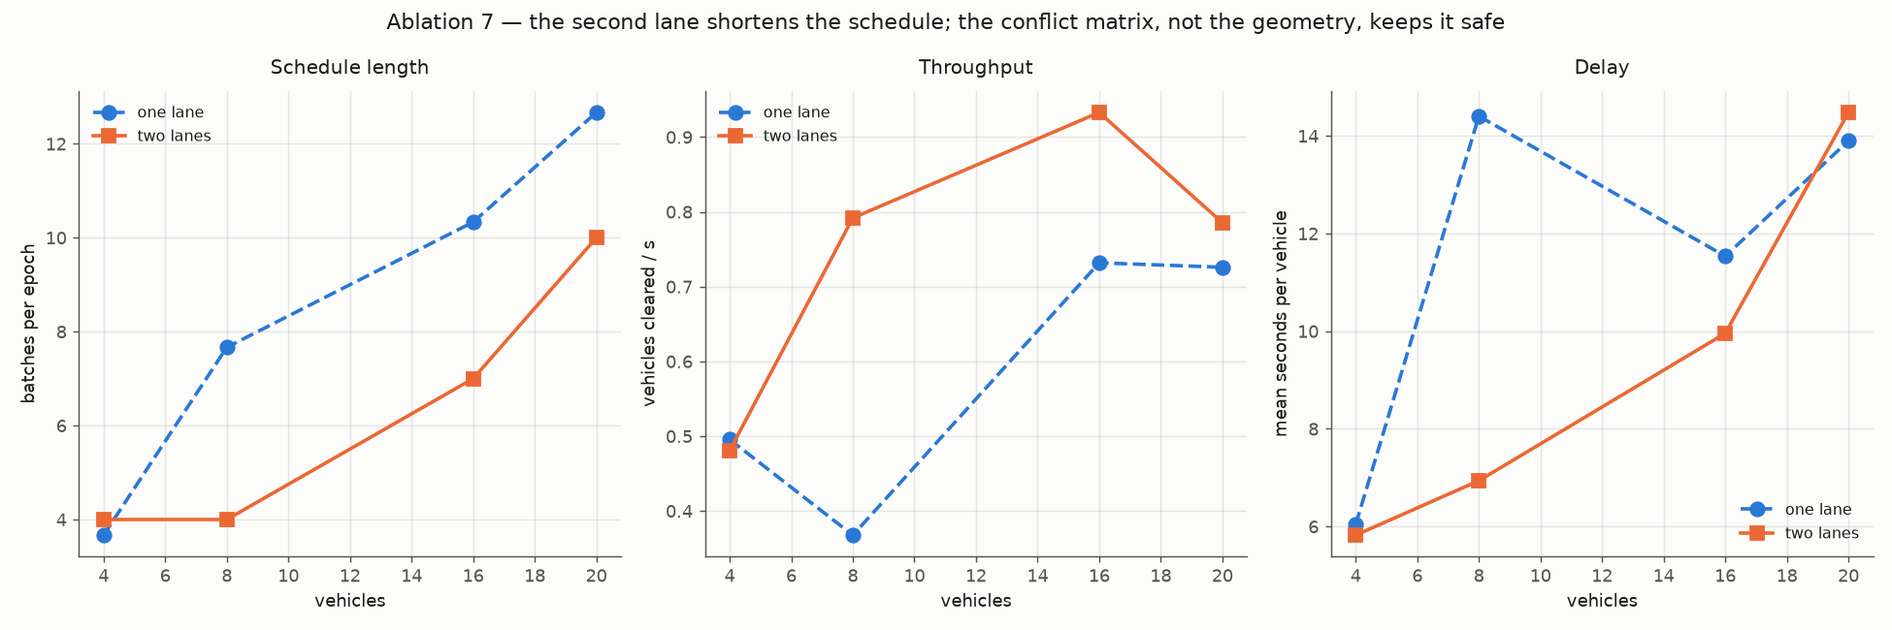
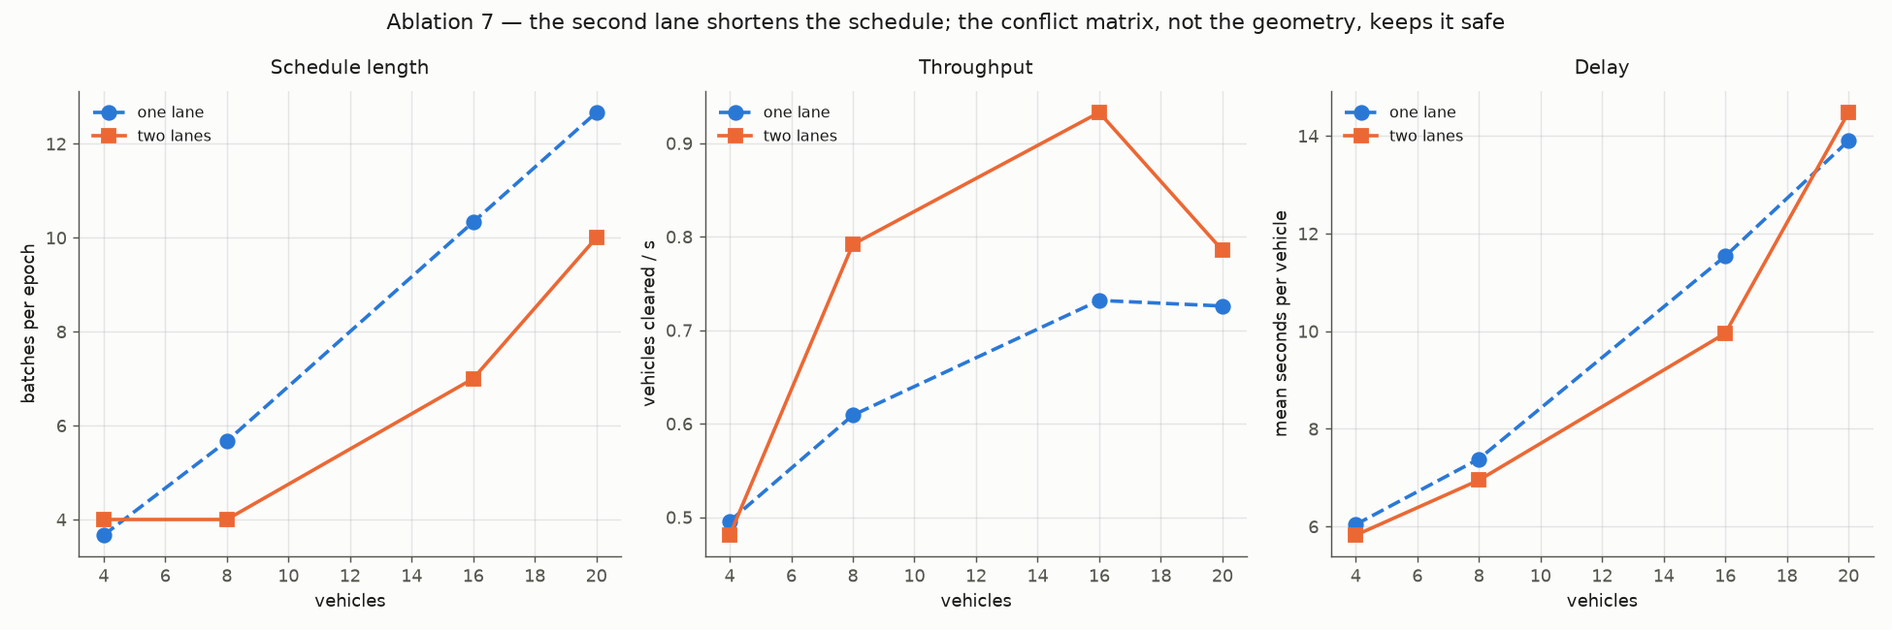
pushing the last changes

diff --git a/figures/results.md b/figures/results.md
@@ -7,11 +7,11 @@ Generated by `python3 -m plotter summary`. Values are the mean across repetition
 | ab1   | OFF          | 4  | 0   | 3    | 100        | 0          | 3          | 4.0              | 0.497 [0.342-0.635] | 6.14 [4.83-8.28]    | 0.46               | 0.20 [0.07-0.47]   | 0.072 [0.061-0.088]  | 0.090 [0.068-0.117] | 60 [50-69]    | 18.3 [13.5-21.3]    | 45 [35-53]       |
 | ab1   | OFF          | 4  | 1   | 3    | 67 [0-100] | 33 [0-100] | 3          | 4.0              | 0.414 [0.100-0.635] | 14.20 [4.83-32.40]  | 0.50 [0.48-0.53]   | 0.11 [0.08-0.14]   | 0.105 [0.076-0.135]  | 0.102 [0.086-0.123] | 66 [61-70]    | 22.3 [21.1-23.6]    | 37 [30-47]       |
 | ab1   | OFF          | 4  | 2   | 3    | 0          | 100        | 3          | 3.7 [3.0-4.0]    | 0.103 [0.091-0.117] | 32.43 [32.40-32.50] | -                  | -                  | -                    | 0.090 [0.068-0.117] | -             | -                   | 59 [54-62]       |
-| ab1   | OFF          | 8  | 0   | 3    | 100        | 0          | 5          | 8.0              | 0.368 [0.338-0.400] | 14.40 [13.15-16.77] | 7.72 [6.02-9.95]   | 9.11 [9.09-9.13]   | 0.113 [0.090-0.135]  | 0.111 [0.053-0.171] | 76 [66-94]    | 27.8 [22.8-37.0]    | 259 [163-368]    |
-| ab1   | OFF          | 8  | 1   | 3    | 100        | 0          | 5          | 8.0              | 0.368 [0.338-0.400] | 14.37 [13.15-16.77] | 7.85 [5.98-10.08]  | 9.09 [9.09-9.10]   | 0.092 [0.090-0.095]  | 0.115 [0.080-0.171] | 75 [64-90]    | 27.6 [22.6-36.2]    | 178 [157-211]    |
-| ab1   | OFF          | 8  | 2   | 3    | 100        | 0          | 5          | 8.0              | 0.367 [0.338-0.398] | 14.44 [13.25-16.77] | 7.80 [5.99-9.95]   | 9.10 [9.09-9.11]   | 0.102 [0.090-0.110]  | 0.112 [0.080-0.171] | 73 [64-86]    | 27.4 [22.6-35.7]    | 144 [134-157]    |
-| ab1   | OFF          | 8  | 3   | 3    | 100        | 0          | 5          | 8.0              | 0.366 [0.336-0.398] | 14.47 [13.25-16.88] | 7.82 [6.00-9.99]   | 9.12 [9.12-9.13]   | 0.122 [0.115-0.130]  | 0.128 [0.053-0.247] | 73 [64-87]    | 27.2 [22.5-35.8]    | 128 [118-138]    |
-| ab1   | OFF          | 8  | 4   | 3    | 0          | 100        | 5          | 8.0              | 0.205 [0.190-0.213] | 32.41 [32.34-32.45] | -                  | -                  | -                    | 0.146 [0.095-0.247] | -             | -                   | 282 [254-301]    |
+| ab1   | OFF          | 8  | 0   | 3    | 100        | 0          | 5          | 8.0              | 0.609 [0.488-0.684] | 7.38 [6.53-8.50]    | 1.26 [0.64-1.71]   | 0.87 [0.09-2.43]   | 0.088 [0.080-0.093]  | 0.117 [0.091-0.144] | 101 [90-109]  | 37.2 [31.3-41.7]    | 175 [116-221]    |
+| ab1   | OFF          | 8  | 1   | 3    | 100        | 0          | 5          | 8.0              | 0.609 [0.488-0.684] | 7.38 [6.53-8.50]    | 2.94 [0.65-6.25]   | 0.84 [0.08-2.36]   | 0.088 [0.076-0.099]  | 0.117 [0.104-0.139] | 100 [88-109]  | 36.6 [29.7-41.8]    | 139 [127-148]    |
+| ab1   | OFF          | 8  | 2   | 3    | 100        | 0          | 5          | 8.0              | 0.608 [0.491-0.678] | 7.47 [6.62-8.70]    | 1.50 [0.69-2.17]   | 0.66 [0.12-1.73]   | 0.134 [0.115-0.155]  | 0.128 [0.108-0.141] | 98 [87-103]   | 35.6 [30.3-38.4]    | 137 [109-157]    |
+| ab1   | OFF          | 8  | 3   | 3    | 67 [0-100] | 33 [0-100] | 5          | 8.0              | 0.508 [0.190-0.678] | 15.22 [6.61-32.44]  | 1.28 [0.90-1.66]   | 0.36 [0.13-0.58]   | 0.142 [0.125-0.159]  | 0.137 [0.095-0.173] | 99 [96-102]   | 36.2 [34.4-38.0]    | 117 [91-158]     |
+| ab1   | OFF          | 8  | 4   | 3    | 0          | 100        | 5          | 8.0              | 0.205 [0.190-0.213] | 32.41 [32.34-32.45] | -                  | -                  | -                    | 0.107 [0.073-0.125] | -             | -                   | 235 [217-250]    |
 | ab1   | OFF          | 12 | 0   | 3    | 100        | 0          | 7          | 12.0             | 0.670 [0.526-0.774] | 10.02 [8.66-12.50]  | 1.84 [0.86-2.98]   | 2.83 [1.50-5.28]   | 0.128 [0.101-0.166]  | 0.189 [0.090-0.382] | 158 [148-180] | 61.9 [54.9-74.4]    | 922 [749-1122]   |
 | ab1   | OFF          | 12 | 1   | 3    | 100        | 0          | 7          | 12.0             | 0.669 [0.529-0.769] | 9.84 [8.45-12.45]   | 2.00 [1.35-2.91]   | 3.10 [2.02-5.12]   | 0.144 [0.114-0.188]  | 0.127 [0.069-0.169] | 156 [151-165] | 64.8 [59.5-72.8]    | 552 [350-820]    |
 | ab1   | OFF          | 12 | 2   | 3    | 100        | 0          | 7          | 12.0             | 0.674 [0.538-0.774] | 10.00 [8.69-12.61]  | 1.79 [1.21-2.64]   | 2.35 [1.44-3.58]   | 0.152 [0.128-0.191]  | 0.115 [0.091-0.161] | 149 [141-162] | 59.6 [54.8-66.0]    | 447 [372-505]    |
@@ -38,11 +38,11 @@ Generated by `python3 -m plotter summary`. Values are the mean across repetition
 | ab1   | ON           | 4  | 0   | 3    | 100        | 0          | 5          | 4.0              | 0.487 [0.320-0.635] | 6.05 [4.83-7.95]    | 1.09 [0.50-2.28]   | 1.32 [0.10-3.78]   | 0.091 [0.089-0.095]  | 0.118 [0.086-0.159] | 96 [91-104]   | 32.8 [30.8-34.7]    | 199 [152-237]    |
 | ab1   | ON           | 4  | 1   | 3    | 100        | 0          | 5          | 4.0              | 0.489 [0.336-0.625] | 6.06 [4.92-7.89]    | 0.63 [0.51-0.87]   | 0.56 [0.10-1.47]   | 0.105 [0.100-0.109]  | 0.095 [0.086-0.110] | 87 [85-90]    | 28.1 [22.0-32.1]    | 164 [140-191]    |
 | ab1   | ON           | 4  | 2   | 3    | 100        | 33 [0-100] | 5          | 4.0              | 0.410 [0.100-0.625] | 14.23 [4.92-32.40]  | 0.51 [0.51-0.51]   | 0.11 [0.11-0.12]   | 0.108 [0.105-0.110]  | 0.095 [0.086-0.110] | 86 [83-88]    | 28.5 [23.7-31.9]    | 168 [102-235]    |
-| ab1   | ON           | 8  | 0   | 3    | 100        | 0          | 7          | 8.0              | 0.366 [0.336-0.398] | 14.47 [13.24-16.88] | 8.02 [6.84-9.77]   | 9.11 [9.09-9.12]   | 0.107 [0.090-0.120]  | 0.091 [0.069-0.126] | 91 [83-104]   | 37.7 [32.0-48.7]    | 438 [408-465]    |
-| ab1   | ON           | 8  | 1   | 3    | 100        | 0          | 7          | 8.0              | 0.366 [0.336-0.398] | 14.47 [13.25-16.88] | 7.69 [5.60-9.97]   | 9.11 [9.11-9.12]   | 0.110 [0.105-0.120]  | 0.089 [0.069-0.120] | 90 [82-103]   | 37.5 [31.8-48.6]    | 390 [322-479]    |
-| ab1   | ON           | 8  | 2   | 3    | 100        | 0          | 38 [7-101] | 8.0              | 0.366 [0.336-0.398] | 14.47 [13.25-16.88] | 7.82 [5.84-10.11]  | 9.13 [9.12-9.13]   | 0.128 [0.125-0.130]  | 0.111 [0.069-0.161] | 90 [82-105]   | 37.7 [31.9-48.9]    | 335 [288-393]    |
-| ab1   | ON           | 8  | 3   | 3    | 100        | 0          | 7          | 8.0              | 0.366 [0.336-0.398] | 14.47 [13.25-16.88] | 7.84 [6.02-10.01]  | 9.14 [9.13-9.14]   | 0.138 [0.135-0.145]  | 0.148 [0.069-0.220] | 90 [82-103]   | 37.7 [31.8-48.7]    | 299 [222-343]    |
-| ab1   | ON           | 8  | 4   | 3    | 100        | 33 [0-100] | 5 [1-7]    | 8.0              | 0.304 [0.211-0.365] | 20.87 [13.29-32.45] | 8.02 [6.03-10.01]  | 9.15 [9.14-9.15]   | 0.147 [0.145-0.150]  | 0.136 [0.069-0.229] | 84 [83-86]    | 34.2 [32.0-38.0]    | 427 [340-518]    |
+| ab1   | ON           | 8  | 0   | 3    | 100        | 0          | 7          | 8.0              | 0.607 [0.488-0.678] | 7.38 [6.62-8.46]    | 1.42 [0.71-2.06]   | 0.14 [0.12-0.15]   | 0.113 [0.106-0.120]  | 0.109 [0.085-0.137] | 127 [123-132] | 50.1 [41.7-56.5]    | 569 [390-895]    |
+| ab1   | ON           | 8  | 1   | 3    | 100        | 0          | 7          | 8.0              | 0.606 [0.485-0.678] | 7.34 [6.62-8.47]    | 1.58 [0.92-2.15]   | 1.71 [0.13-3.29]   | 0.127 [0.125-0.128]  | 0.148 [0.083-0.242] | 124 [114-135] | 50.7 [40.8-59.2]    | 409 [382-432]    |
+| ab1   | ON           | 8  | 2   | 3    | 100        | 0          | 7          | 8.0              | 0.603 [0.476-0.678] | 7.51 [6.62-8.83]    | 2.03 [1.25-3.16]   | 0.15 [0.14-0.15]   | 0.143 [0.140-0.145]  | 0.210 [0.082-0.370] | 120 [107-133] | 51.7 [40.6-62.5]    | 365 [356-372]    |
+| ab1   | ON           | 8  | 3   | 3    | 100        | 0          | 7          | 8.0              | 0.608 [0.491-0.678] | 7.50 [6.61-8.81]    | 1.62 [1.25-1.92]   | 0.59 [0.15-1.47]   | 0.146 [0.143-0.151]  | 0.114 [0.077-0.170] | 115 [109-119] | 46.3 [39.5-51.3]    | 385 [307-480]    |
+| ab1   | ON           | 8  | 4   | 3    | 100        | 0          | 7          | 8.0              | 0.606 [0.485-0.678] | 7.29 [6.61-8.48]    | 1.75 [1.14-2.12]   | 0.37 [0.15-0.59]   | 0.158 [0.151-0.164]  | 0.137 [0.080-0.168] | 120 [111-133] | 51.3 [43.3-60.0]    | 285 [268-304]    |
 | ab1   | ON           | 12 | 0   | 3    | 100        | 0          | 11         | 12.0             | 0.665 [0.524-0.769] | 9.80 [8.30-12.50]   | 2.36 [1.32-3.73]   | 3.50 [2.33-5.76]   | 0.215 [0.188-0.258]  | 0.256 [0.130-0.465] | 193 [184-211] | 94.3 [86.4-106.1]   | 1209 [933-1507]  |
 | ab1   | ON           | 12 | 1   | 3    | 100        | 0          | 11         | 12.0             | 0.658 [0.511-0.769] | 9.85 [8.26-12.75]   | 2.70 [1.60-4.40]   | 4.45 [2.38-7.88]   | 0.186 [0.181-0.191]  | 0.285 [0.197-0.379] | 197 [182-214] | 99.7 [86.5-116.5]   | 918 [754-1126]   |
 | ab1   | ON           | 12 | 2   | 3    | 100        | 0          | 11         | 12.0             | 0.664 [0.522-0.769] | 9.81 [8.30-12.54]   | 2.36 [1.35-3.70]   | 3.59 [2.33-6.00]   | 0.230 [0.201-0.284]  | 0.313 [0.146-0.557] | 189 [174-216] | 93.9 [84.4-107.2]   | 934 [735-1230]   |
@@ -68,9 +68,9 @@ Generated by `python3 -m plotter summary`. Values are the mean across repetition
 | ab1   | ON           | 20 | 8   | 3    | 100        | 0          | 15         | 20.0             | 0.720 [0.697-0.735] | 13.94 [13.25-14.51] | 4.47 [3.76-4.85]   | 6.94 [5.98-8.49]   | 0.613 [0.485-0.807]  | 0.206 [0.162-0.261] | 344 [331-355] | 182.4 [179.5-186.2] | 2017 [1715-2265] |
 | ab2   | ours         | 4  | 1   | 3    | 100        | 0          | 3          | 4.0              | 0.484 [0.360-0.571] | 5.59 [4.84-6.72]    | 0.63 [0.45-0.87]   | 0.53 [0.06-1.47]   | 0.073 [0.056-0.102]  | 0.145 [0.086-0.259] | 63 [59-68]    | 20.6 [17.7-22.6]    | 36 [25-52]       |
 | ab2   | ours         | 4  | 2   | 3    | 100        | 0          | 3          | 4.0              | 0.498 [0.381-0.571] | 5.84 [4.83-7.61]    | 0.47 [0.45-0.49]   | 0.20 [0.07-0.45]   | 0.075 [0.062-0.090]  | 0.082 [0.068-0.091] | 61 [55-67]    | 18.4 [14.2-21.4]    | 49 [40-64]       |
-| ab2   | ours         | 8  | 1   | 3    | 100        | 0          | 5          | 8.0              | 0.374 [0.338-0.419] | 14.32 [12.99-16.77] | 7.79 [5.97-9.95]   | 9.08 [9.08-9.09]   | 0.083 [0.080-0.090]  | 0.133 [0.079-0.171] | 76 [65-89]    | 27.8 [22.7-36.1]    | 206 [189-234]    |
-| ab2   | ours         | 8  | 2   | 3    | 100        | 0          | 5          | 8.0              | 0.374 [0.338-0.417] | 14.35 [13.09-16.77] | 7.73 [5.95-9.95]   | 9.09 [9.06-9.11]   | 0.085 [0.065-0.105]  | 0.132 [0.069-0.247] | 76 [67-90]    | 27.8 [23.1-36.3]    | 205 [193-224]    |
-| ab2   | ours         | 8  | 3   | 3    | 100        | 0          | 5          | 8.0              | 0.371 [0.338-0.408] | 14.32 [13.01-16.77] | 7.80 [5.98-9.94]   | 9.08 [9.07-9.09]   | 0.077 [0.070-0.085]  | 0.116 [0.053-0.171] | 74 [66-89]    | 27.5 [22.8-36.2]    | 191 [171-223]    |
+| ab2   | ours         | 8  | 1   | 3    | 100        | 0          | 5          | 8.0              | 0.585 [0.488-0.656] | 8.11 [7.10-9.04]    | 1.25 [0.65-1.63]   | 0.10               | 0.100                | 0.103 [0.073-0.140] | 103 [90-112]  | 37.3 [31.1-42.1]    | 207 [139-309]    |
+| ab2   | ours         | 8  | 2   | 3    | 100        | 0          | 5          | 8.0              | 0.516 [0.488-0.563] | 9.10 [7.43-10.71]   | 1.31 [0.65-1.68]   | 0.86 [0.09-2.40]   | 0.088 [0.085-0.090]  | 0.083 [0.078-0.089] | 109 [103-119] | 38.4 [33.2-43.4]    | 443 [206-604]    |
+| ab2   | ours         | 8  | 3   | 3    | 100        | 0          | 5          | 8.0              | 0.552 [0.494-0.667] | 8.56 [6.43-10.39]   | 1.46 [0.63-2.12]   | 1.14 [0.07-3.27]   | 0.077 [0.070-0.080]  | 0.095 [0.074-0.105] | 105 [92-116]  | 38.1 [31.3-44.5]    | 155 [135-174]    |
 | ab2   | ours         | 16 | 1   | 3    | 100        | 0          | 11         | 16.0             | 0.645 [0.569-0.721] | 13.35 [11.96-15.45] | 3.36 [1.57-4.84]   | 4.48 [1.81-7.36]   | 0.179 [0.159-0.189]  | 0.226 [0.158-0.303] | 232 [231-233] | 111.5 [98.0-121.6]  | 1139 [809-1744]  |
 | ab2   | ours         | 16 | 2   | 3    | 100        | 0          | 11         | 16.0             | 0.643 [0.546-0.751] | 12.57 [10.32-15.27] | 3.33 [2.30-3.91]   | 4.68 [2.43-7.33]   | 0.187 [0.183-0.193]  | 0.213 [0.143-0.279] | 235 [230-238] | 115.6 [106.8-122.2] | 736 [644-859]    |
 | ab2   | ours         | 16 | 3   | 3    | 100        | 0          | 11         | 16.0             | 0.617 [0.511-0.769] | 13.44 [9.97-15.50]  | 3.33 [1.93-4.09]   | 4.67 [2.61-7.14]   | 0.188 [0.178-0.196]  | 0.217 [0.164-0.291] | 240 [235-244] | 116.0 [109.6-122.0] | 1580 [1393-1894] |
@@ -79,9 +79,9 @@ Generated by `python3 -m plotter summary`. Values are the mean across repetition
 | ab2   | ours         | 16 | 6   | 3    | 100        | 0          | 11         | 16.0             | 0.666 [0.528-0.856] | 12.48 [9.57-15.82]  | 3.15 [1.77-4.13]   | 4.58 [2.04-7.55]   | 0.209 [0.162-0.277]  | 0.221 [0.162-0.299] | 234 [232-237] | 113.6 [100.6-123.7] | 716 [659-755]    |
 | ab2   | vanilla      | 4  | 1   | 3    | 100        | 0          | 3          | 4.0              | 0.484 [0.360-0.571] | 5.58 [4.83-6.71]    | 0.60 [0.47-0.86]   | 0.54 [0.07-1.46]   | 0.080 [0.072-0.092]  | 0.138 [0.068-0.259] | 67 [64-69]    | 20.2 [18.9-21.6]    | 49 [36-69]       |
 | ab2   | vanilla      | 4  | 2   | 3    | 100        | 0          | 3          | 4.0              | 0.498 [0.381-0.571] | 5.63 [4.83-6.97]    | 0.60 [0.45-0.88]   | 0.54 [0.06-1.49]   | 0.078 [0.051-0.127]  | 0.138 [0.068-0.259] | 65 [60-71]    | 19.9 [17.9-21.4]    | 49 [26-62]       |
-| ab2   | vanilla      | 8  | 1   | 3    | 100        | 0          | 5          | 8.0              | 0.374 [0.338-0.419] | 14.32 [12.99-16.77] | 7.61 [5.40-9.94]   | 9.08 [9.07-9.09]   | 0.078 [0.070-0.085]  | 0.136 [0.053-0.247] | 75 [67-89]    | 27.7 [23.1-36.3]    | 206 [190-236]    |
-| ab2   | vanilla      | 8  | 2   | 3    | 100        | 0          | 5          | 8.0              | 0.374 [0.338-0.419] | 14.32 [12.99-16.77] | 7.79 [5.97-9.94]   | 9.08 [9.08-9.09]   | 0.083 [0.080-0.090]  | 0.114 [0.080-0.171] | 75 [67-87]    | 27.7 [23.0-35.9]    | 193 [158-219]    |
-| ab2   | vanilla      | 8  | 3   | 3    | 100        | 0          | 5          | 8.0              | 0.371 [0.338-0.408] | 14.32 [13.01-16.77] | 7.83 [5.97-10.06]  | 9.08 [9.08-9.09]   | 0.082 [0.080-0.085]  | 0.105 [0.053-0.171] | 74 [67-87]    | 27.5 [23.0-35.9]    | 219 [160-261]    |
+| ab2   | vanilla      | 8  | 1   | 3    | 100        | 0          | 5          | 8.0              | 0.585 [0.488-0.656] | 8.15 [7.13-9.13]    | 1.34 [0.66-1.74]   | 0.89 [0.10-2.47]   | 0.103 [0.095-0.107]  | 0.125 [0.080-0.213] | 99 [87-106]   | 36.9 [31.0-41.4]    | 165 [143-178]    |
+| ab2   | vanilla      | 8  | 2   | 3    | 100        | 0          | 5          | 8.0              | 0.517 [0.491-0.563] | 9.15 [7.43-10.83]   | 1.26 [0.65-1.61]   | 0.81 [0.09-2.23]   | 0.087 [0.080-0.100]  | 0.097 [0.083-0.104] | 103 [86-112]  | 37.4 [30.7-41.8]    | 288 [205-409]    |
+| ab2   | vanilla      | 8  | 3   | 3    | 100        | 0          | 5          | 8.0              | 0.552 [0.494-0.667] | 8.60 [6.43-10.39]   | 1.35 [0.64-1.72]   | 0.87 [0.08-2.44]   | 0.087 [0.075-0.101]  | 0.142 [0.105-0.191] | 102 [92-111]  | 37.0 [30.6-42.4]    | 206 [187-233]    |
 | ab2   | vanilla      | 16 | 1   | 3    | 100        | 0          | 11         | 16.0             | 0.645 [0.573-0.717] | 13.31 [11.84-15.43] | 3.23 [2.22-3.91]   | 4.43 [2.48-6.60]   | 0.211 [0.172-0.276]  | 0.210 [0.140-0.253] | 234 [227-248] | 114.3 [106.6-119.3] | 1223 [720-2055]  |
 | ab2   | vanilla      | 16 | 2   | 3    | 100        | 0          | 11         | 16.0             | 0.633 [0.539-0.724] | 12.79 [10.74-15.54] | 3.56 [2.60-4.57]   | 5.28 [3.74-7.96]   | 0.195 [0.187-0.201]  | 0.159 [0.106-0.222] | 239 [236-244] | 121.3 [115.5-127.1] | 1276 [769-2011]  |
 | ab2   | vanilla      | 16 | 3   | 3    | 100        | 0          | 11         | 16.0             | 0.621 [0.523-0.769] | 13.34 [9.97-15.08]  | 3.13 [2.46-4.09]   | 4.15 [2.65-6.34]   | 0.191 [0.166-0.215]  | 0.239 [0.110-0.360] | 239 [237-241] | 111.7 [109.8-114.8] | 1875 [1406-2436] |
@@ -89,7 +89,7 @@ Generated by `python3 -m plotter summary`. Values are the mean across repetition
 | ab2   | vanilla      | 16 | 5   | 3    | 100        | 0          | 11         | 16.0             | 0.619 [0.525-0.741] | 13.52 [11.22-16.03] | 3.19 [1.66-4.02]   | 4.49 [1.84-7.30]   | 0.197 [0.176-0.216]  | 0.228 [0.099-0.301] | 233 [222-242] | 114.1 [102.0-124.0] | 982 [770-1292]   |
 | ab2   | vanilla      | 16 | 6   | 3    | 100        | 0          | 11         | 16.0             | 0.666 [0.533-0.851] | 12.41 [9.45-15.63]  | 3.29 [2.23-4.01]   | 4.59 [2.50-7.06]   | 0.192 [0.184-0.199]  | 0.241 [0.130-0.393] | 239 [236-242] | 114.6 [106.0-121.9] | 1743 [841-2215]  |
 | ab3   | ours         | 4  | -   | 3    | 100        | 0          | 3          | 4.0              | 0.495 [0.336-0.635] | 6.00 [4.84-7.88]    | 0.60 [0.46-0.87]   | 0.54 [0.06-1.49]   | 0.085 [0.056-0.127]  | 0.138 [0.068-0.259] | 64 [60-67]    | 19.8 [18.0-21.6]    | 38 [28-47]       |
-| ab3   | ours         | 8  | -   | 3    | 100        | 0          | 5          | 8.0              | 0.368 [0.338-0.400] | 14.37 [13.15-16.77] | 7.78 [5.96-9.94]   | 9.08 [9.07-9.08]   | 0.077 [0.075-0.080]  | 0.112 [0.080-0.171] | 75 [67-89]    | 27.7 [22.9-36.2]    | 180 [132-217]    |
+| ab3   | ours         | 8  | -   | 3    | 100        | 0          | 5          | 8.0              | 0.607 [0.488-0.678] | 7.42 [6.61-8.54]    | 1.35 [0.65-1.80]   | 0.84 [0.10-2.32]   | 0.095 [0.083-0.106]  | 0.113 [0.088-0.144] | 104 [94-112]  | 37.6 [31.6-42.1]    | 233 [212-254]    |
 | ab3   | ours         | 12 | -   | 3    | 100        | 0          | 7          | 12.0             | 0.671 [0.529-0.774] | 9.87 [8.55-12.39]   | 1.93 [1.24-3.13]   | 2.92 [1.72-5.00]   | 0.107 [0.104-0.109]  | 0.138 [0.039-0.274] | 155 [146-170] | 63.0 [58.2-71.3]    | 534 [518-562]    |
 | ab3   | ours         | 16 | -   | 3    | 100        | 0          | 11         | 16.0             | 0.731 [0.648-0.865] | 11.51 [9.92-12.69]  | 3.21 [1.70-4.41]   | 4.59 [1.96-7.68]   | 0.234 [0.174-0.317]  | 0.254 [0.184-0.367] | 233 [225-237] | 113.7 [102.0-122.9] | 707 [654-761]    |
 | ab3   | ours         | 20 | -   | 3    | 100        | 0          | 13         | 20.0             | 0.750 [0.717-0.778] | 13.20 [12.79-14.02] | 3.92 [3.42-4.37]   | 5.68 [4.16-7.62]   | 0.311 [0.239-0.350]  | 0.260 [0.169-0.333] | 311 [288-327] | 151.2 [142.1-157.0] | 2264 [1671-3348] |
@@ -99,12 +99,12 @@ Generated by `python3 -m plotter summary`. Values are the mean across repetition
 | ab3   | tl           | 16 | -   | 3    | 0          | 0          | -          | 16.0             | 0.370 [0.341-0.404] | 18.26 [16.13-19.70] | -                  | -                  | -                    | -                   | -             | -                   | 0                |
 | ab3   | tl           | 20 | -   | 3    | 0          | 0          | -          | 20.0             | 0.391 [0.382-0.402] | 21.33 [18.77-23.17] | -                  | -                  | -                    | -                   | -             | -                   | 0                |
 | ab4   | noprio       | 4  | -   | 3    | 100        | 0          | 3          | 4.0              | 0.495 [0.336-0.635] | 6.01 [4.83-7.89]    | 0.60 [0.47-0.85]   | 0.53 [0.07-1.46]   | 0.076 [0.067-0.092]  | 0.138 [0.068-0.259] | 65 [64-66]    | 20.0 [18.6-21.6]    | 39 [21-60]       |
-| ab4   | noprio       | 8  | -   | 3    | 100        | 0          | 5          | 8.0              | 0.368 [0.336-0.400] | 14.40 [13.15-16.88] | 7.78 [5.92-9.96]   | 9.09 [9.09-9.09]   | 0.087 [0.085-0.090]  | 0.131 [0.062-0.247] | 75 [66-90]    | 27.6 [22.8-36.2]    | 236 [193-275]    |
+| ab4   | noprio       | 8  | -   | 3    | 100        | 0          | 3 [0-5]    | 8.0              | 0.609 [0.488-0.684] | 7.37 [6.53-8.49]    | 1.33 [0.71-1.81]   | 0.12 [0.08-0.16]   | 0.089 [0.075-0.102]  | 0.110 [0.098-0.121] | 101 [88-109]  | 37.1 [30.8-41.9]    | 181 [173-192]    |
 | ab4   | noprio       | 12 | -   | 3    | 100        | 0          | 7          | 12.0             | 0.664 [0.529-0.755] | 9.72 [8.20-12.45]   | 2.37 [1.25-3.21]   | 3.88 [2.35-5.08]   | 0.117 [0.107-0.124]  | 0.184 [0.113-0.317] | 158 [144-167] | 69.0 [61.1-73.6]    | 675 [182-1502]   |
 | ab4   | noprio       | 16 | -   | 3    | 100        | 0          | 7 [0-11]   | 16.0             | 0.737 [0.656-0.860] | 11.24 [9.75-12.45]  | 2.96 [2.07-3.91]   | 4.32 [2.50-6.97]   | 0.198 [0.174-0.229]  | 0.234 [0.193-0.271] | 236 [228-248] | 112.5 [106.9-117.7] | 1692 [787-3300]  |
 | ab4   | noprio       | 20 | -   | 3    | 100        | 0          | 13         | 20.0             | 0.736 [0.699-0.772] | 13.52 [12.89-14.38] | 3.82 [3.52-4.30]   | 6.33 [4.62-8.39]   | 0.269 [0.198-0.311]  | 0.291 [0.233-0.400] | 318 [312-322] | 157.8 [151.5-162.1] | 2572 [1187-4877] |
 | ab4   | prio         | 4  | -   | 3    | 100        | 0          | 3          | 4.0              | 0.485 [0.364-0.571] | 5.75 [4.83-7.23]    | 0.40 [0.27-0.47]   | 0.20 [0.07-0.46]   | 0.074 [0.070-0.076]  | 0.077 [0.054-0.092] | 58 [48-65]    | 19.3 [15.1-23.0]    | 48 [29-71]       |
-| ab4   | prio         | 8  | -   | 3    | 100        | 0          | 5          | 8.0              | 0.374 [0.338-0.419] | 14.32 [12.99-16.77] | 7.63 [5.51-9.94]   | 9.08               | 0.080                | 0.119 [0.090-0.171] | 75 [65-90]    | 29.0 [24.3-37.7]    | 178 [139-232]    |
+| ab4   | prio         | 8  | -   | 3    | 100        | 0          | 5          | 8.0              | 0.586 [0.491-0.656] | 8.30 [7.09-9.60]    | 1.32 [0.65-1.68]   | 0.48 [0.10-1.24]   | 0.095 [0.090-0.100]  | 0.142 [0.122-0.160] | 97 [90-104]   | 36.8 [32.4-42.2]    | 147 [135-162]    |
 | ab4   | prio         | 12 | -   | 3    | 100        | 0          | 7          | 12.0             | 0.622 [0.550-0.663] | 10.89 [10.56-11.52] | 1.76 [1.13-2.64]   | 3.15 [1.78-5.35]   | 0.119 [0.104-0.129]  | 0.163 [0.088-0.272] | 156 [148-164] | 66.3 [60.7-73.5]    | 526 [276-922]    |
 | ab4   | prio         | 16 | -   | 3    | 100        | 0          | 11         | 16.0             | 0.648 [0.573-0.721] | 13.32 [11.99-15.45] | 3.38 [1.62-4.53]   | 4.16 [1.86-6.52]   | 0.193 [0.178-0.219]  | 0.211 [0.154-0.321] | 231 [228-235] | 112.1 [102.8-117.1] | 1161 [917-1515]  |
 | ab4   | prio         | 20 | -   | 3    | 100        | 0          | 13         | 20.0             | 0.660 [0.606-0.733] | 15.49 [14.09-17.54] | 4.09 [3.26-4.58]   | 6.31 [5.38-7.79]   | 0.257 [0.218-0.324]  | 0.261 [0.196-0.331] | 314 [303-320] | 156.9 [154.0-160.6] | 2576 [1392-4868] |
@@ -115,11 +115,11 @@ Generated by `python3 -m plotter summary`. Values are the mean across repetition
 | ab6   | perception   | 4  | 50  | 3    | 100        | 0          | 3          | 4.0              | 0.402 [0.331-0.513] | 7.49 [5.30-9.33]    | 2.54 [0.47-5.42]   | 2.67 [0.07-5.58]   | 0.962 [0.070-2.723]  | 0.117 [0.079-0.191] | 66 [63-69]    | 21.6 [20.0-22.8]    | 46 [31-59]       |
 | ab6   | perception   | 4  | 100 | 3    | 100        | 0          | 3          | 4.0              | 0.376 [0.292-0.506] | 8.41 [5.37-12.02]   | 3.46 [0.54-8.11]   | 3.51 [0.14-8.06]   | 0.092 [0.065-0.138]  | 0.108 [0.054-0.191] | 69 [62-76]    | 22.8 [20.0-25.4]    | 46 [34-55]       |
 | ab6   | perception   | 4  | 200 | 3    | 100        | 0          | 3          | 4.0              | 0.248 [0.197-0.282] | 13.15 [9.27-17.80]  | 8.90 [5.06-13.56]  | 9.78 [8.04-13.21]  | 0.912 [0.045-2.610]  | 0.122 [0.077-0.211] | 64 [42-78]    | 20.4 [10.5-25.6]    | 53 [44-65]       |
-| ab6   | perception   | 8  | 0   | 3    | 100        | 0          | 5          | 8.0              | 0.368 [0.338-0.400] | 14.37 [13.15-16.77] | 7.85 [5.97-10.08]  | 9.09 [9.09-9.09]   | 0.087 [0.085-0.090]  | 0.137 [0.079-0.247] | 76 [67-88]    | 27.7 [23.0-36.1]    | 214 [184-262]    |
-| ab6   | perception   | 8  | 25  | 3    | 100        | 0          | 5          | 8.0              | 0.368 [0.338-0.400] | 14.37 [13.15-16.77] | 7.58 [5.96-9.29]   | 9.07 [9.07-9.08]   | 0.075 [0.070-0.080]  | 0.106 [0.062-0.171] | 76 [68-88]    | 27.9 [23.1-36.1]    | 204 [195-210]    |
-| ab6   | perception   | 8  | 50  | 3    | 100        | 0          | 5          | 8.0              | 0.368 [0.338-0.400] | 14.37 [13.15-16.77] | 7.68 [5.53-10.05]  | 9.08               | 0.080                | 0.125 [0.053-0.247] | 74 [66-88]    | 27.5 [22.9-36.1]    | 201 [190-208]    |
-| ab6   | perception   | 8  | 100 | 3    | 100        | 0          | 5          | 8.0              | 0.307 [0.216-0.367] | 20.04 [13.19-30.15] | 13.45 [5.97-24.43] | 14.91 [9.08-26.57] | 2.902 [0.080-8.545]  | 0.095 [0.078-0.114] | 80 [74-88]    | 28.5 [24.6-35.7]    | 247 [226-288]    |
-| ab6   | perception   | 8  | 200 | 3    | 67 [0-100] | 33 [0-100] | 5          | 8.0              | 0.273 [0.205-0.400] | 25.29 [13.15-32.34] | 15.29 [7.44-23.13] | 16.54 [9.07-24.00] | 4.370 [0.075-8.665]  | 0.101 [0.081-0.136] | 80 [80-81]    | 28.1 [25.9-30.2]    | 143 [13-224]     |
+| ab6   | perception   | 8  | 0   | 3    | 100        | 0          | 5          | 8.0              | 0.609 [0.488-0.684] | 7.38 [6.53-8.49]    | 1.33 [0.65-1.74]   | 0.88 [0.08-2.46]   | 0.091 [0.075-0.102]  | 0.118 [0.076-0.176] | 100 [89-106]  | 37.0 [31.5-41.1]    | 169 [141-196]    |
+| ab6   | perception   | 8  | 25  | 3    | 100        | 0          | 5          | 8.0              | 0.610 [0.491-0.684] | 7.53 [6.53-9.04]    | 1.32 [0.78-1.62]   | 0.48 [0.09-1.13]   | 0.087 [0.080-0.093]  | 0.094 [0.082-0.102] | 100 [91-105]  | 35.4 [32.0-38.7]    | 193 [156-244]    |
+| ab6   | perception   | 8  | 50  | 3    | 100        | 0          | 5          | 8.0              | 0.609 [0.488-0.684] | 7.40 [6.53-8.54]    | 1.39 [0.65-1.93]   | 0.84 [0.09-2.31]   | 0.088 [0.078-0.100]  | 0.155 [0.094-0.271] | 98 [90-106]   | 36.5 [31.0-41.0]    | 185 [153-211]    |
+| ab6   | perception   | 8  | 100 | 3    | 33 [0-100] | 67 [0-100] | 5          | 8.0              | 0.230 [0.190-0.286] | 28.85 [21.77-32.44] | 16.43              | 18.62              | 9.075                | 0.118 [0.110-0.132] | 100           | 40.5                | 90 [9-246]       |
+| ab6   | perception   | 8  | 200 | 3    | 0          | 100        | -          | 8.0              | 0.205 [0.190-0.213] | 32.41 [32.34-32.45] | -                  | -                  | -                    | 0.142 [0.121-0.154] | -             | -                   | 14 [11-17]       |
 | ab6   | perception   | 12 | 0   | 3    | 100        | 0          | 7          | 12.0             | 0.671 [0.529-0.774] | 9.84 [8.53-12.43]   | 2.09 [1.22-3.30]   | 3.07 [1.69-5.18]   | 0.115 [0.100-0.124]  | 0.134 [0.109-0.154] | 153 [147-166] | 64.1 [57.4-72.7]    | 580 [413-905]    |
 | ab6   | perception   | 12 | 25  | 3    | 100        | 0          | 7          | 12.0             | 0.669 [0.524-0.774] | 9.88 [8.41-12.54]   | 2.18 [1.22-3.64]   | 3.21 [1.97-5.62]   | 0.114 [0.093-0.144]  | 0.126 [0.059-0.189] | 151 [135-173] | 64.7 [57.3-75.6]    | 371 [353-391]    |
 | ab6   | perception   | 12 | 50  | 3    | 100        | 0          | 7          | 12.0             | 0.670 [0.526-0.774] | 9.97 [8.61-12.50]   | 2.03 [1.01-3.41]   | 2.91 [1.57-5.28]   | 0.120 [0.116-0.124]  | 0.152 [0.096-0.256] | 154 [138-168] | 62.4 [55.1-73.7]    | 615 [365-1040]   |
@@ -136,10 +136,10 @@ Generated by `python3 -m plotter summary`. Values are the mean across repetition
 | ab6   | perception   | 20 | 100 | 3    | 0          | 100        | -          | 18.7 [18.0-19.0] | 0.251 [0.237-0.259] | 62.58 [62.46-62.67] | -                  | -                  | -                    | 0.244 [0.211-0.273] | -             | -                   | 40 [32-50]       |
 | ab6   | perception   | 20 | 200 | 3    | 0          | 100        | -          | 18.7 [18.0-19.0] | 0.251 [0.237-0.259] | 62.58 [62.46-62.67] | -                  | -                  | -                    | 0.279 [0.248-0.302] | -             | -                   | 42 [39-45]       |
 | ab7   | one          | 4  | -   | 3    | 100        | 0          | 3          | 4.0              | 0.496 [0.339-0.635] | 6.04 [4.83-7.99]    | 0.66 [0.46-1.05]   | 0.40 [0.07-1.05]   | 0.068 [0.062-0.077]  | 0.080 [0.068-0.086] | 64 [55-69]    | 19.5 [16.4-21.9]    | 41 [31-49]       |
-| ab7   | one          | 8  | -   | 3    | 100        | 0          | 5          | 8.0              | 0.368 [0.338-0.400] | 14.40 [13.15-16.77] | 7.79 [5.99-9.94]   | 9.09 [9.09-9.10]   | 0.093 [0.085-0.100]  | 0.137 [0.080-0.247] | 76 [66-90]    | 27.8 [22.9-36.3]    | 249 [187-297]    |
+| ab7   | one          | 8  | -   | 3    | 100        | 0          | 5          | 8.0              | 0.609 [0.488-0.684] | 7.38 [6.53-8.52]    | 1.43 [0.65-2.03]   | 0.09 [0.09-0.10]   | 0.088 [0.086-0.090]  | 0.119 [0.102-0.150] | 100 [90-109]  | 36.9 [31.0-41.7]    | 176 [157-207]    |
 | ab7   | one          | 16 | -   | 3    | 100        | 0          | 11         | 16.0             | 0.732 [0.645-0.870] | 11.54 [10.01-12.68] | 3.20 [1.52-4.25]   | 4.50 [1.58-7.79]   | 0.204 [0.174-0.248]  | 0.221 [0.153-0.339] | 234 [223-242] | 113.0 [94.0-126.5]  | 1144 [776-1752]  |
 | ab7   | one          | 20 | -   | 3    | 100        | 0          | 13         | 20.0             | 0.726 [0.664-0.775] | 13.90 [12.82-15.67] | 4.38 [3.37-5.92]   | 6.74 [4.55-9.82]   | 0.282 [0.253-0.313]  | 0.382 [0.183-0.654] | 310 [290-330] | 158.1 [145.5-172.3] | 1272 [1000-1500] |
 | ab7   | two          | 4  | -   | 3    | 100        | 0          | 3          | 4.0              | 0.481 [0.417-0.513] | 5.82 [5.55-6.37]    | 0.15 [0.08-0.28]   | 0.08 [0.07-0.09]   | 0.076 [0.066-0.086]  | 0.074 [0.067-0.081] | 67 [64-71]    | 21.0 [19.3-22.4]    | 39 [31-49]       |
-| ab7   | two          | 8  | -   | 3    | 100        | 0          | 5          | 8.0              | 0.792 [0.748-0.851] | 6.94 [6.44-7.36]    | 0.22 [0.09-0.37]   | 0.14 [0.10-0.21]   | 0.130 [0.091-0.205]  | 0.089 [0.071-0.110] | 90 [86-92]    | 33.3 [31.6-34.7]    | 190 [135-221]    |
+| ab7   | two          | 8  | -   | 3    | 100        | 0          | 5          | 8.0              | 0.792 [0.748-0.851] | 6.95 [6.48-7.34]    | 0.16 [0.09-0.28]   | 0.09 [0.09-0.10]   | 0.087 [0.080-0.100]  | 0.094 [0.076-0.120] | 88 [86-90]    | 32.6 [31.7-33.1]    | 166 [135-199]    |
 | ab7   | two          | 16 | -   | 3    | 100        | 0          | 11         | 16.0             | 0.933 [0.894-0.952] | 9.96 [9.75-10.24]   | 2.43 [2.13-2.63]   | 3.53 [3.30-3.66]   | 0.210 [0.183-0.234]  | 0.184 [0.151-0.208] | 229 [226-233] | 113.3 [110.3-116.3] | 1127 [729-1587]  |
 | ab7   | two          | 20 | -   | 3    | 100        | 0          | 13         | 20.0             | 0.785 [0.717-0.830] | 14.48 [13.00-16.68] | 3.17 [2.90-3.62]   | 5.82 [5.68-5.98]   | 0.244 [0.231-0.265]  | 0.263 [0.201-0.372] | 296 [292-301] | 150.0 [147.1-154.4] | 2061 [1032-3955] |

diff --git a/docs/ablations.md b/docs/ablations.md
@@ -231,7 +231,7 @@ cannot drift from the geometry it claims to describe.
 | commit rate | σ=0 | 0.25 | 0.5 | 1.0 | 2.0 |
 |---|---|---|---|---|---|
 | N=4 | 100 | 100 | 100 | 100 | 100 |
-| N=8 | 100 | 100 | 100 | 100 | 67 |
+| N=8 | 100 | 100 | 100 | 33 | 0 |
 | N=12 | 100 | 100 | 100 | 33 | 33 |
 | N=16 | 100 | 100 | 100 | 100 | 0 |
 | N=20 | 100 | 100 | 100 | 0 | 0 |
@@ -252,9 +252,9 @@ commit rate is zero, because the stop-sign timeout releases vehicles consensus
 never scheduled. That is the safety fallback doing its job, not the protocol
 doing its job; only the middle panel distinguishes them.
 
-**Open:** at 3 repetitions the frontier is located but its shape is not. N=12
-fails at sigma 1.0 while N=16 does not, which is sampling, not a real inversion.
-Resolving the frontier per N needs more repetitions.
+**Open:** at 3 repetitions the frontier is located but its shape is not. N=16
+survives sigma 1.0 while N=8 and N=12 do not, which is sampling rather than a
+real inversion. Resolving the frontier per N needs more repetitions.
 
 ---
 
@@ -274,15 +274,18 @@ that pair and only that pair
 | N | batches 1L → 2L | throughput 1L → 2L | delay 1L → 2L |
 |---|---|---|---|
 | 4 | 3.7 → 4.0 | 0.50 → 0.48 | 6.04 → 5.82 |
-| 8 | 7.7 → **4.0** | 0.37 → **0.79** | 14.40 → **6.94** |
+| 8 | 5.7 → **4.0** | 0.61 → **0.79** | 7.38 → **6.95** |
 | 16 | 10.3 → **7.0** | 0.73 → **0.93** | 11.54 → **9.96** |
 | 20 | 12.7 → **10.0** | 0.73 → 0.79 | 13.90 → 14.48 |
 
-**The schedule gets shorter at every load above N=4, and the effect is large.**
-At N=8 the second lane halves the schedule, doubles throughput and cuts delay by
-more than half. The gain narrows as load rises — 24% fewer batches at N=20
-against 48% at N=8 — because with more vehicles per approach the queue behind
-each pair dominates the saving from running the pair together.
+**The schedule gets shorter at every load above N=4, by roughly a third.**
+30% fewer batches at N=8, 32% at N=16, narrowing to 21% at N=20: with more
+vehicles per approach, the queue behind each pair comes to dominate the saving
+from running the pair together. Throughput follows the same shape.
+
+An earlier version of this table reported 48% at N=8 with throughput doubling.
+That was measuring a broken one-lane baseline, not the second lane — see the
+N=8 defect below.
 
 **N=4 is a wash, and should be.** One vehicle per approach means there is rarely
 a same-approach pair to run in parallel, so the second lane has nothing to
